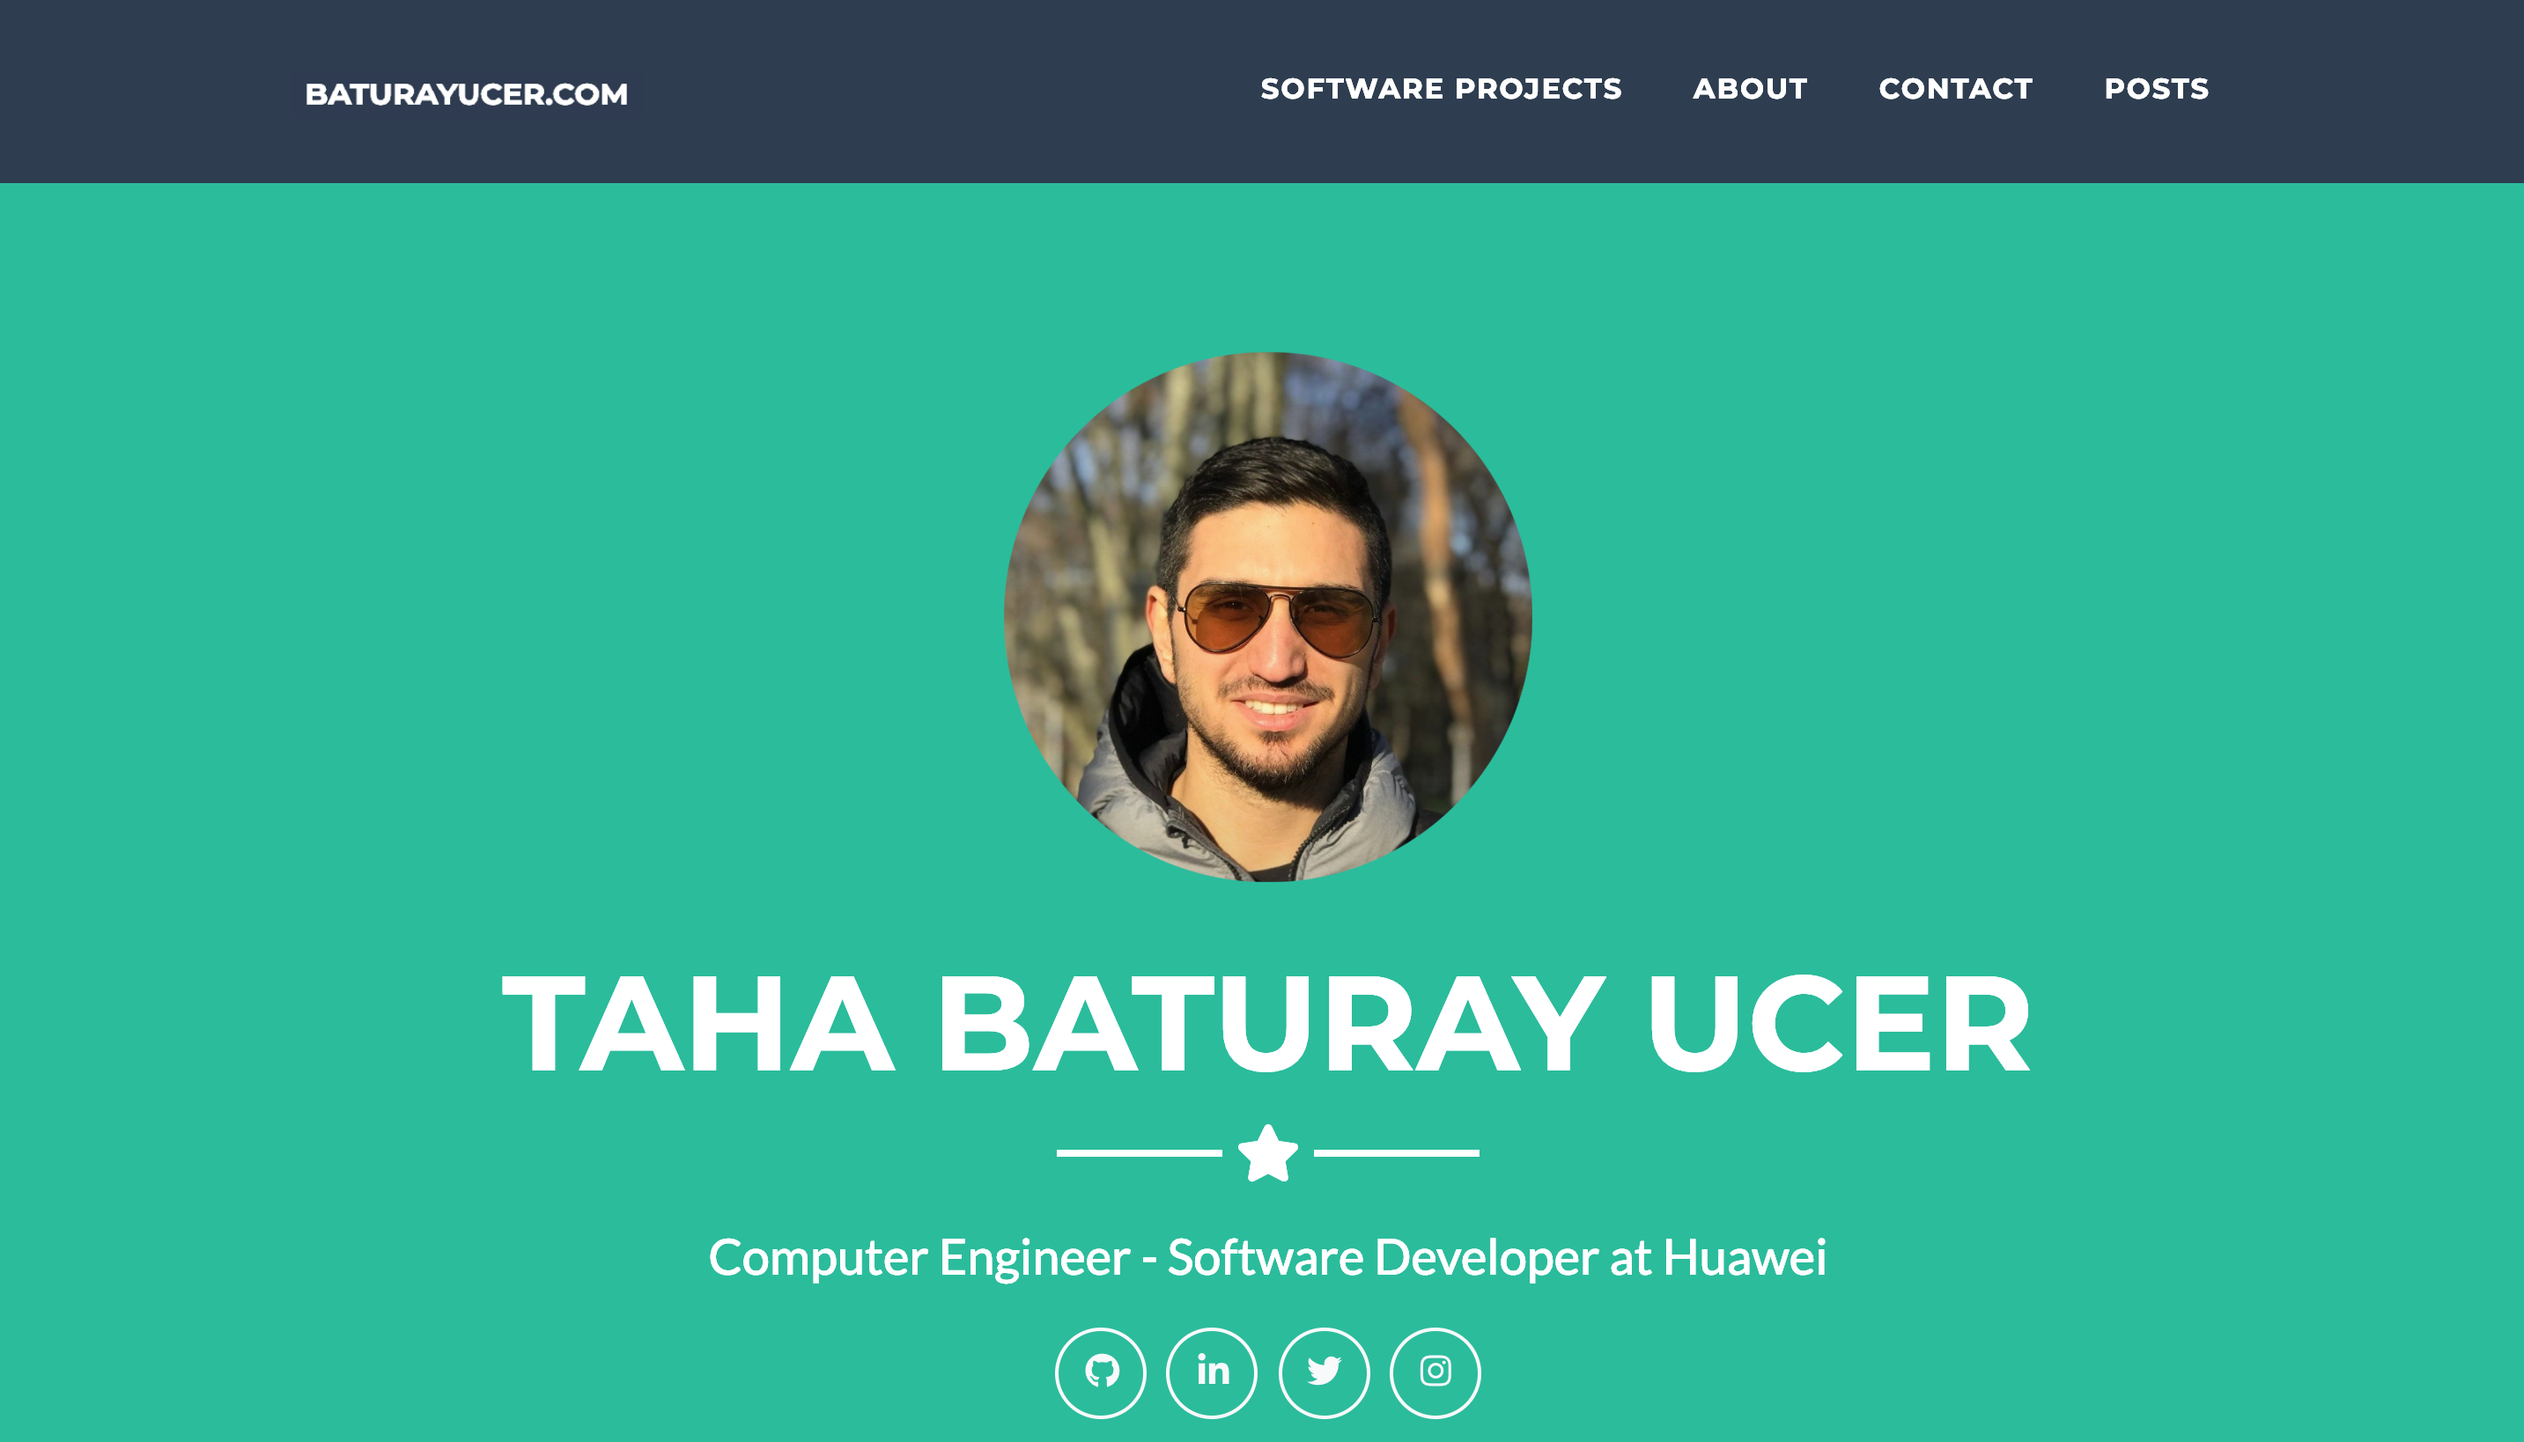
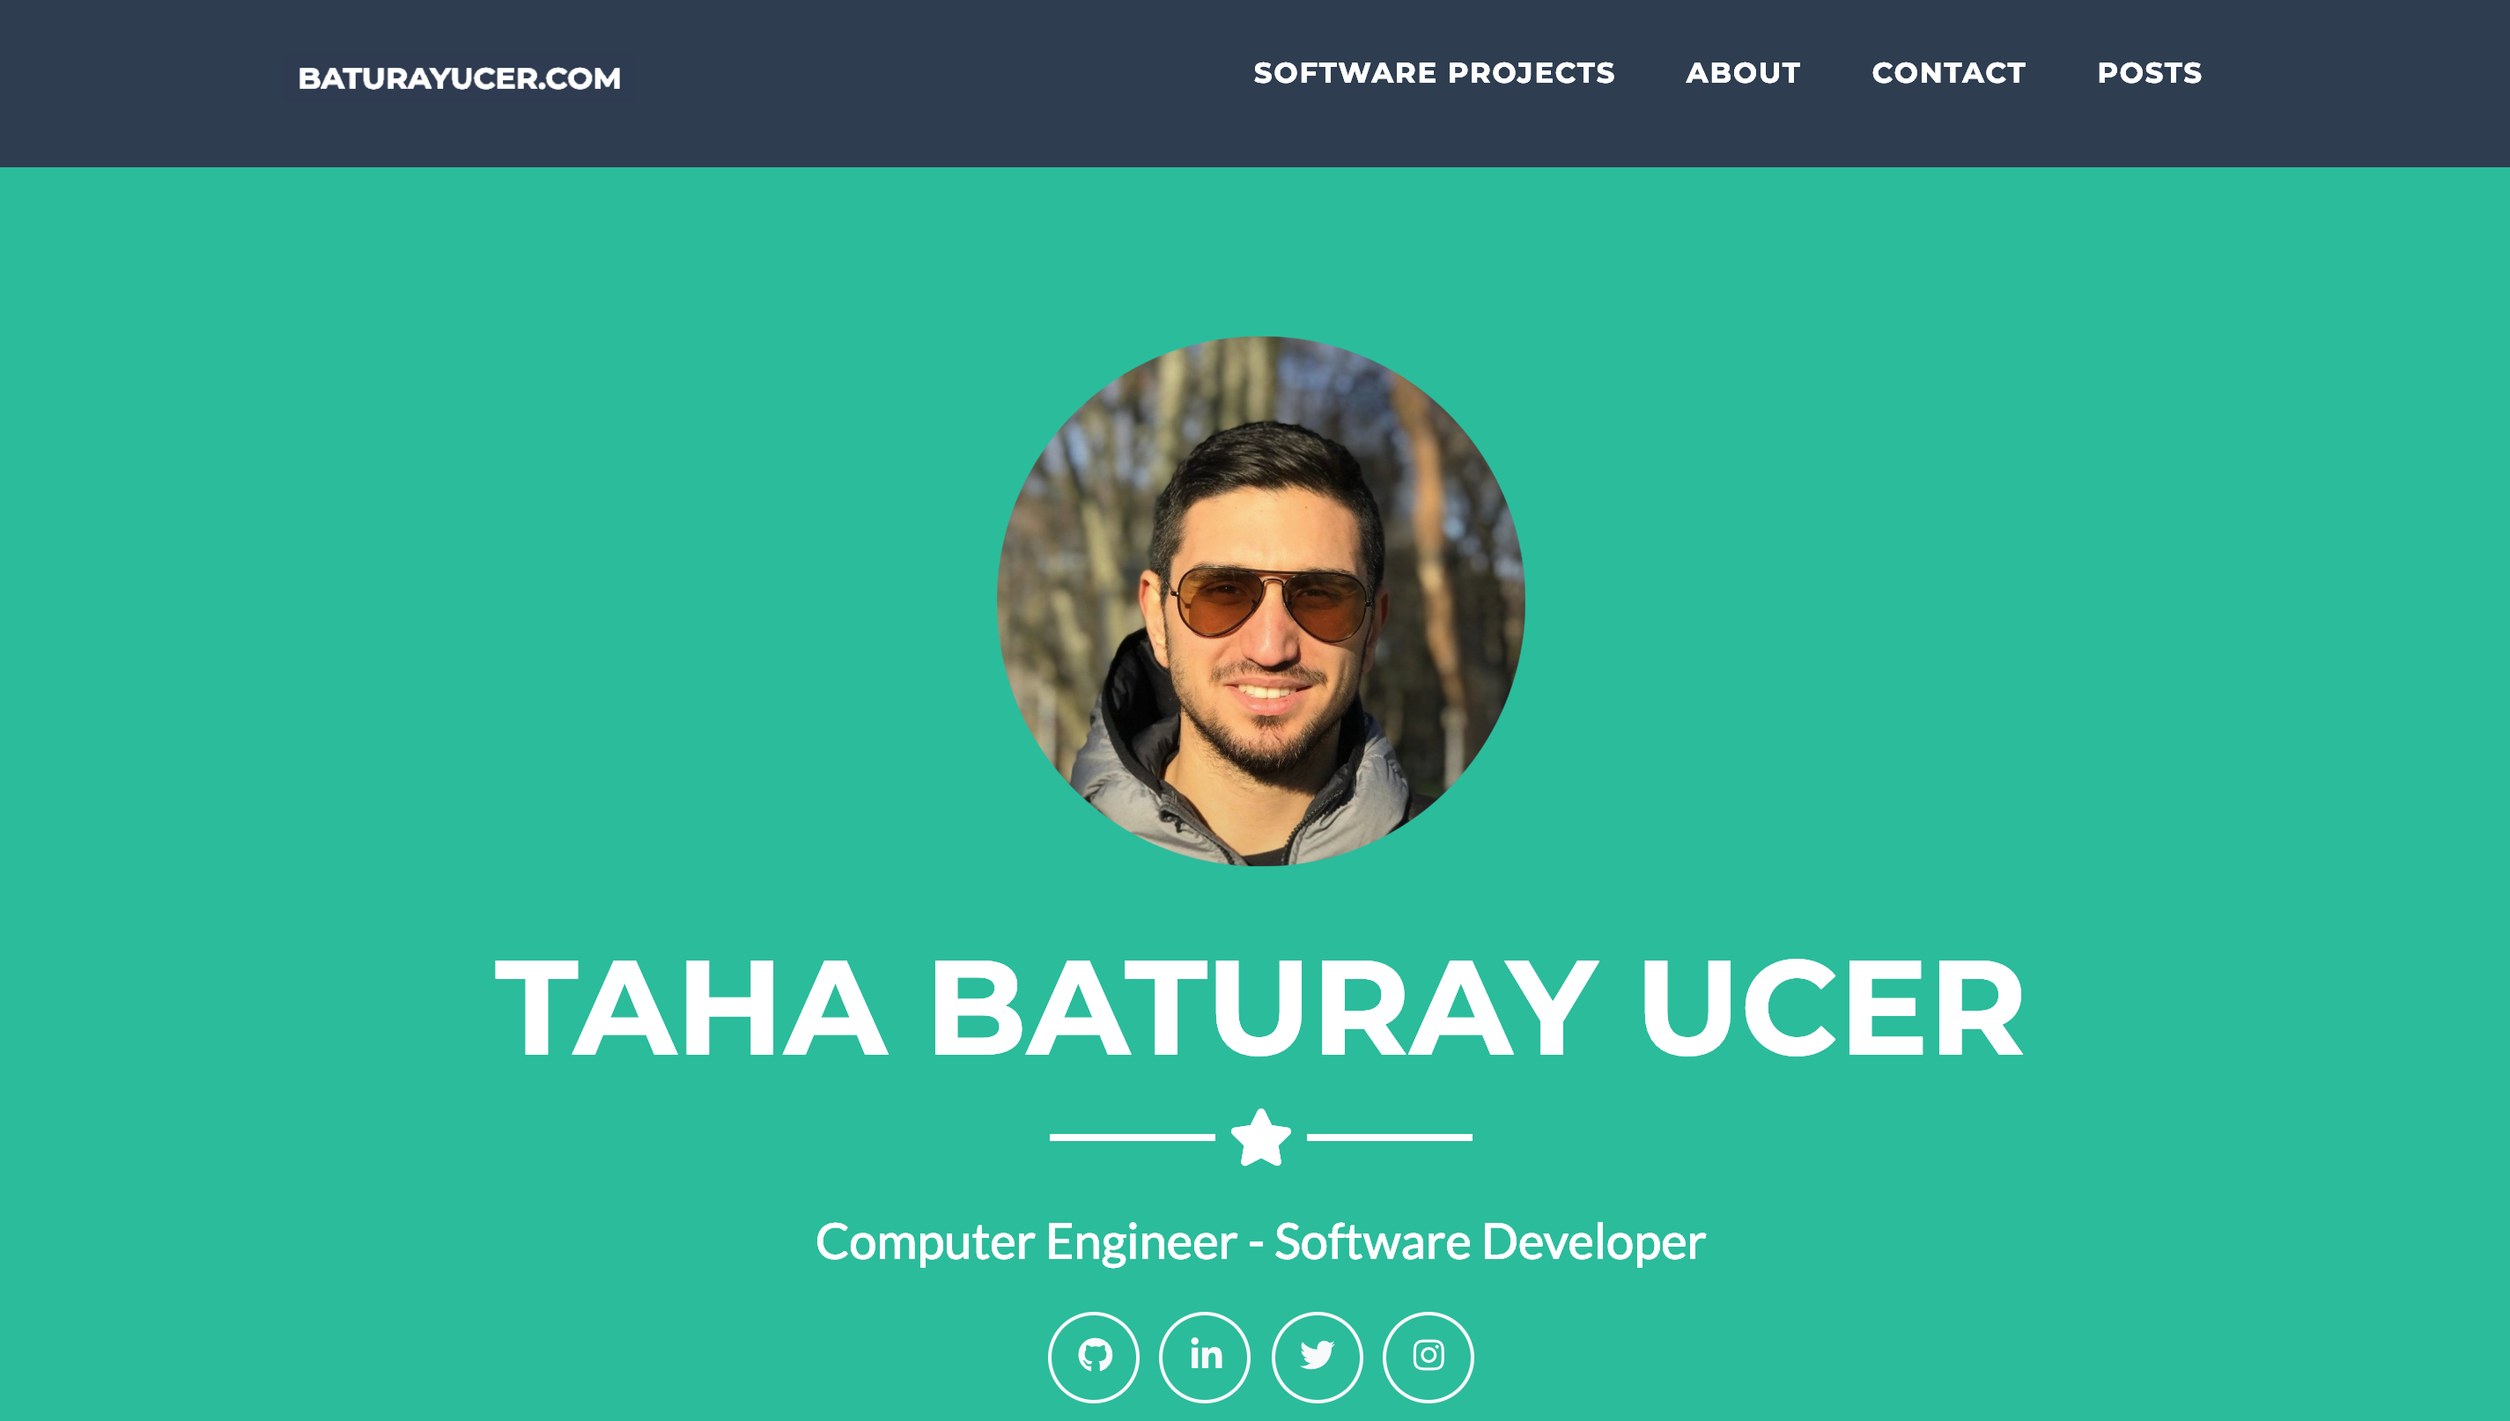
readme changes

diff --git a/templates/myApp/index.html b/templates/myApp/index.html
@@ -63,7 +63,7 @@
       <img class="img-fluid mb-5 d-block mx-auto" src="../../static/myApp/media/selfie.jpg" alt="" style="width: 300px; border-radius: 50%;">
       <h1 class="text-uppercase mb-0">Taha Baturay Ucer</h1>
       <hr class="star-light">
-      <h2 class="font-weight-light mb-0">Computer Engineer - Software Developer at <a style="color: white" href="http://huawei.com" target="_blank">Huawei</a></h2>
+      <h2 class="font-weight-light mb-0">Computer Engineer - Software Developer</h2>
     </div>
       <br>
       <div class="col-md-4 mb-5 mb-lg-0" style="margin:auto;width: 50%">
